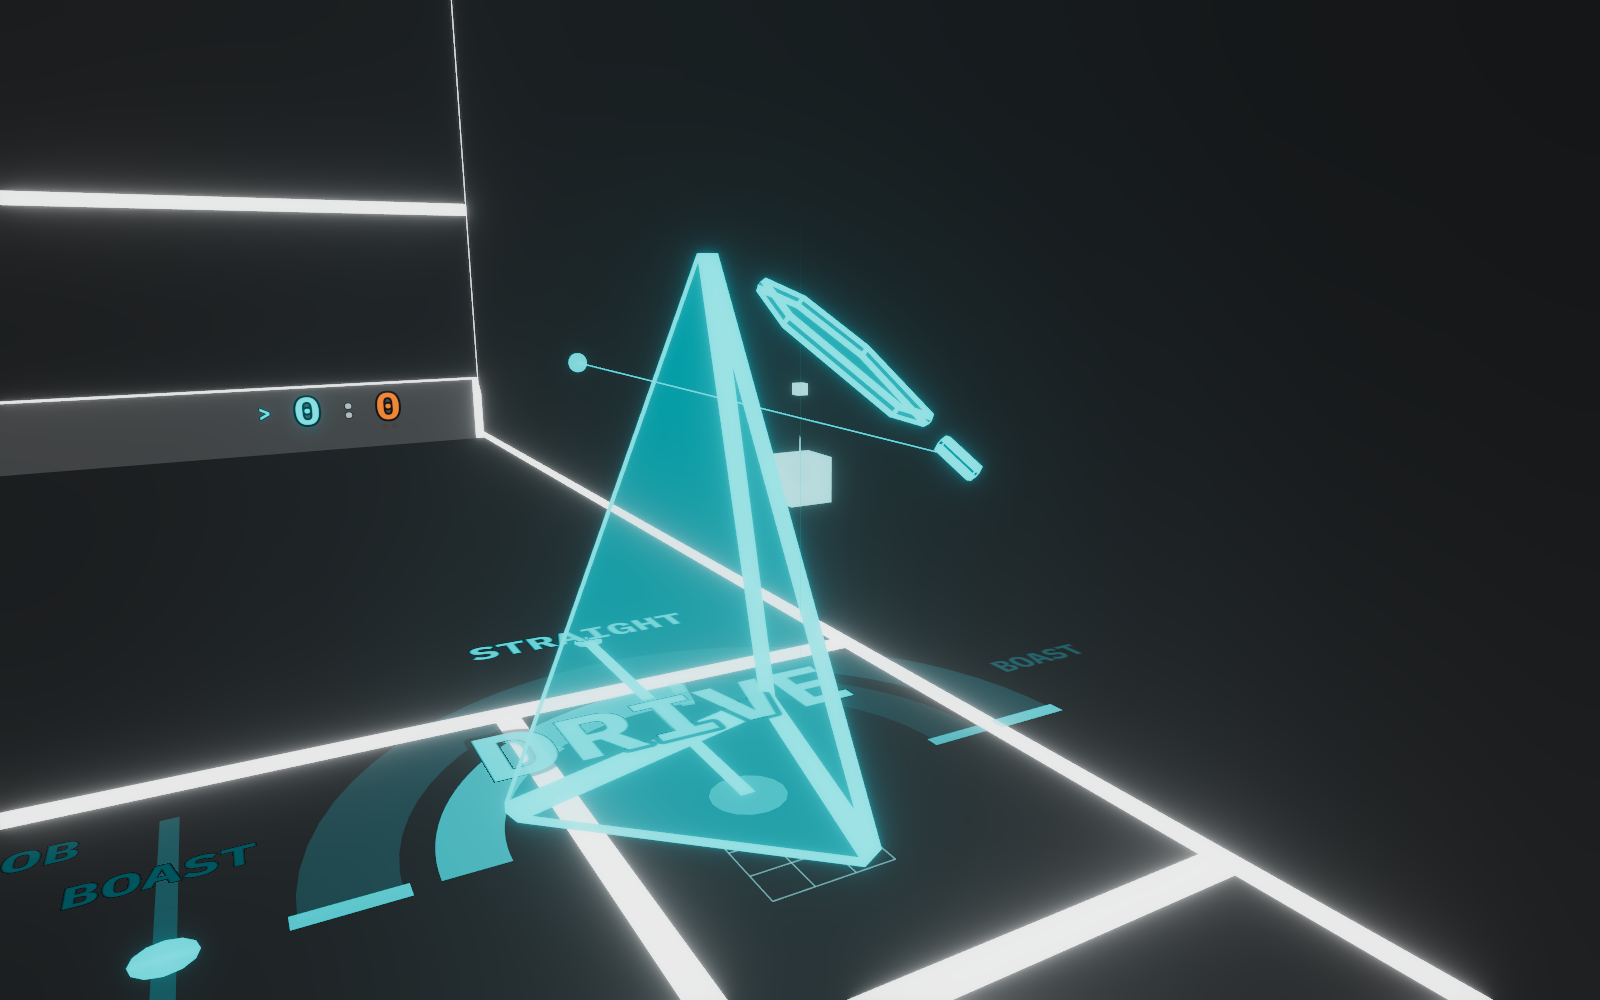
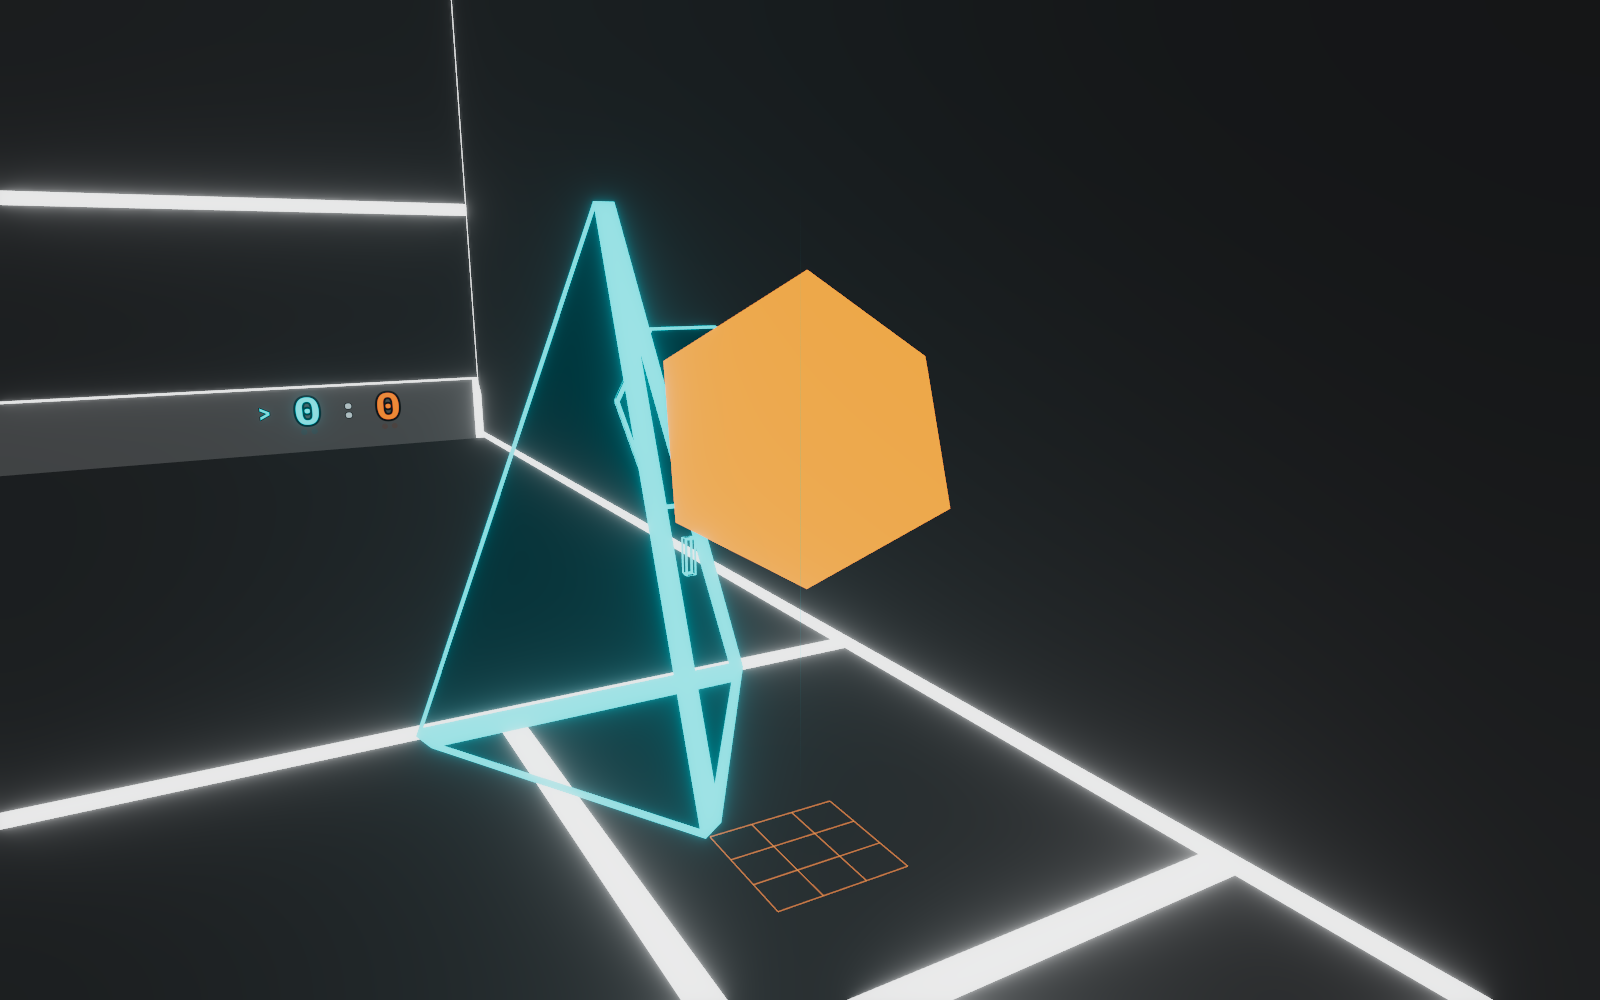
fix: recapture /design plates so the ball is visible
The catalog serves static PNGs. Freeze the placed pose, bump capture-only scale, and replace the stills so the hex reads in the Play grid.

Changed region(s): [[0.1562, 0.186, 0.6562, 0.93], [0.0, 0.806, 0.1562, 1.0]]

diff --git a/src/components/Ball.tsx b/src/components/Ball.tsx
@@ -60,10 +60,14 @@ const BALL_MASS = 0.024
 const BALL_COLOR = BALL_BASE_COLOR
 const BALL_MODEL_PATH = '/models/ball.glb'
 
-/** Wide-frame capture stills — ball reads as pixels at real scale; boost visual only. */
+/**
+ * Wide-frame capture stills — at match scale the ball is a couple of pixels, and /design
+ * then downscales the 1600px plate into a ~480px grid cell. 12× is capture-only (visual
+ * mesh, not the Rapier collider) so the orange/cyan hex still reads on the catalog page.
+ */
 const BIG_BALL_VIEW =
   typeof window !== 'undefined' && new URLSearchParams(window.location.search).has('bigball')
-const BALL_VISUAL_SCALE = BALL_MODEL_SCALE * (BIG_BALL_VIEW ? 6 : 1)
+const BALL_VISUAL_SCALE = BALL_MODEL_SCALE * (BIG_BALL_VIEW ? 12 : 1)
 
 /**
  * Suppresses the trail entirely rather than setting its length to 0, which would leave
@@ -213,6 +217,8 @@ export default function Ball({
   const liveMixTarget = useRef(new THREE.Color())
   /** Pose captured on first frozen frame — re-applied like serve hold so gravity cannot sink. */
   const freezePoseRef = useRef<{ x: number; y: number; z: number } | null>(null)
+  /** DEV capture harness — wins over serve-hold / between-points freeze so a placed ball sticks. */
+  const captureHoldRef = useRef<{ x: number; y: number; z: number } | null>(null)
 
   const ribbonAttenuation = useCallback((t: number): number => (
     ribbonTrailAttenuation(t, ribbonVisibleRef.current)
@@ -284,12 +290,16 @@ export default function Ball({
   /** DEV capture harness — place the ball for wide-frame stills (`scripts/capture-design-media.mjs`). */
   useEffect(() => {
     if (!import.meta.env.DEV) return
-    const place = (x: number, y: number, z: number): void => {
+    const place = (x: number, y: number, z: number): boolean => {
       const body = rigidBodyRef.current
-      if (!body) return
-      body.setTranslation({ x, y, z }, true)
+      if (!body) return false
+      const pose = { x, y, z }
+      captureHoldRef.current = pose
+      freezePoseRef.current = pose
+      body.setTranslation(pose, true)
       body.setLinvel({ x: 0, y: 0, z: 0 }, true)
       body.setAngvel({ x: 0, y: 0, z: 0 }, true)
+      return true
     }
     Object.defineProperty(window, '__sqCapturePlaceBall', {
       value: place,
@@ -329,7 +339,11 @@ export default function Ball({
     // held the ball is still a dynamic body, so a charging racquet was shoving it
     // sideways and every serve drifted out to the left.
     const live = useGameStore.getState()
-    if (isServeBallHeld(live.phase)) {
+    if (captureHoldRef.current) {
+      ball.setTranslation(captureHoldRef.current, true)
+      ball.setLinvel({ x: 0, y: 0, z: 0 }, true)
+      ball.setAngvel({ x: 0, y: 0, z: 0 }, true)
+    } else if (isServeBallHeld(live.phase)) {
       freezePoseRef.current = null
       const pose = serveBallWorldPosition(live.serviceBox)
       ball.setTranslation(pose, true)

diff --git a/src/dev/design-reference/PlaySection.tsx b/src/dev/design-reference/PlaySection.tsx
@@ -64,7 +64,7 @@ export function PlaySection(): ReactElement {
       <div
         style={{
           display: 'grid',
-          gridTemplateColumns: 'repeat(auto-fill, minmax(300px, 1fr))',
+          gridTemplateColumns: 'repeat(auto-fill, minmax(480px, 1fr))',
           gap: 28,
         }}
       >

diff --git a/public/design-media/README.md b/public/design-media/README.md
@@ -3,5 +3,5 @@
 Play-section evidence for `/design`. README claim plates live in [`../readme/`](../readme/).
 
 - `journey-*.svg` — authored court plates for the README filmstrip (img-safe orange balls, no SVG `filter`).
-- `capture-*.png` — WebGL stills from `node scripts/capture-design-media.mjs` (`?bigball` + `__sqCapturePlaceBall` for wide frames).
+- `capture-*.png` — WebGL stills from `node scripts/capture-design-media.mjs` (`?bigball` 12× visual scale + `__sqCapturePlaceBall`, which freezes the placed pose so serve-hold / gravity cannot undo it). Re-run the script after harness changes — `/design` serves these PNGs, not live WebGL.
 - Live capture: `npm run dev` then `node scripts/capture-design-media.mjs` with `?nobloom` (needs usable GPU WebGL).
